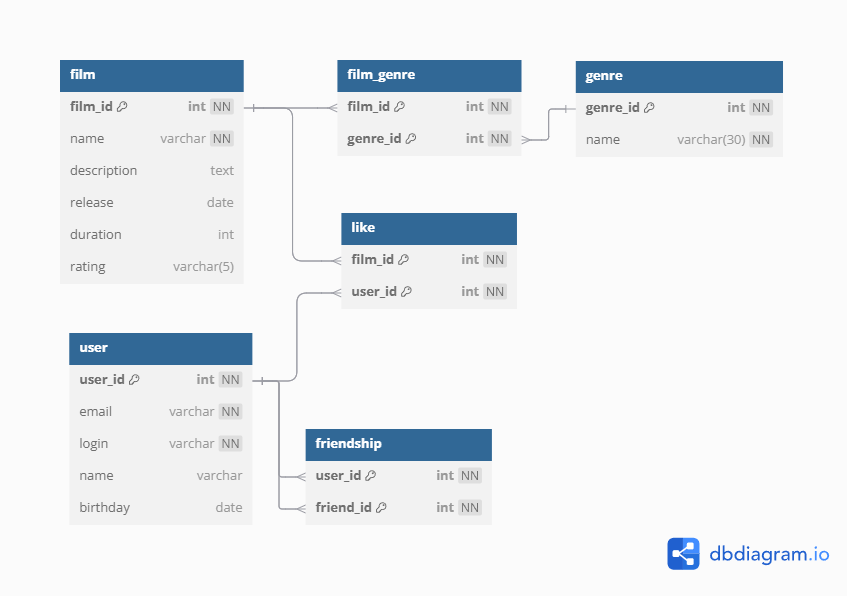
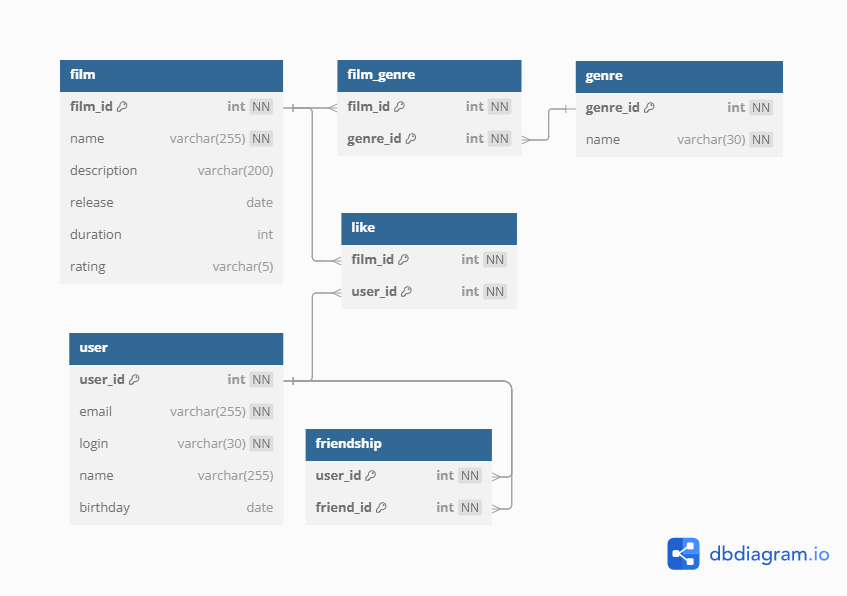
sprint-12_intermediate review_1: set max length for fields in user table

diff --git a/src/main/resources/DB-description.md b/src/main/resources/DB-description.md
@@ -6,7 +6,7 @@
  **film** - информация о фильмах.
 * _film_id_, int, NOT NULL - primary key
 * _name_, varchar(255), NOT NULL - название фильма
-* _description_, text - описание фильма
+* _description_, varchar(200) - описание фильма
 * _release_, date - дата выхода фильма
 * _duration_, int - продолжительность фильма в минутах
 * _rating_, varchar(5) - возрастной рейтинг Американской киноассоциации (MPAA)
@@ -21,9 +21,9 @@
 
  **user** - информация о пользователях.
 * _user_id_, int, NOT NULL - primary key
-* _email_, varchar, NOT NULL - электронная почта
-* _login_, varchar, NOT NULL - логин
-* _name_, varchar - имя
+* _email_, varchar(255), NOT NULL - электронная почта
+* _login_, varchar(30), NOT NULL - логин
+* _name_, varchar(255) - имя
 * _birthday_, date - дата рождения
 
  **friendship** - дружественные связи пользователей.
@@ -87,3 +87,11 @@ AND friend_id IN (
   WHERE friend_id = 1);
 ```
 
+- Список неподтверждённых друзей
+```dbn-psql
+SELECT friend_id FROM friendship
+WHERE user_id = 1
+AND friend_id NOT IN (
+  SELECT user_id FROM friendship
+  WHERE friend_id = 1);
+```
